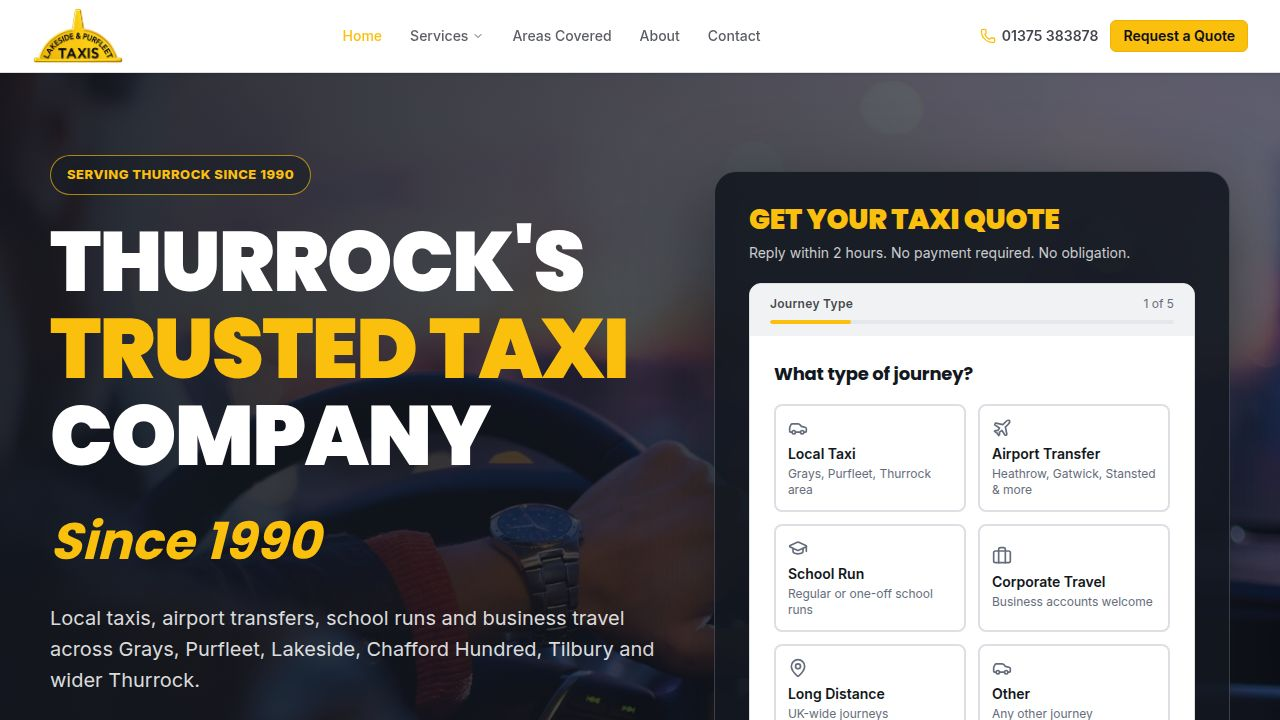
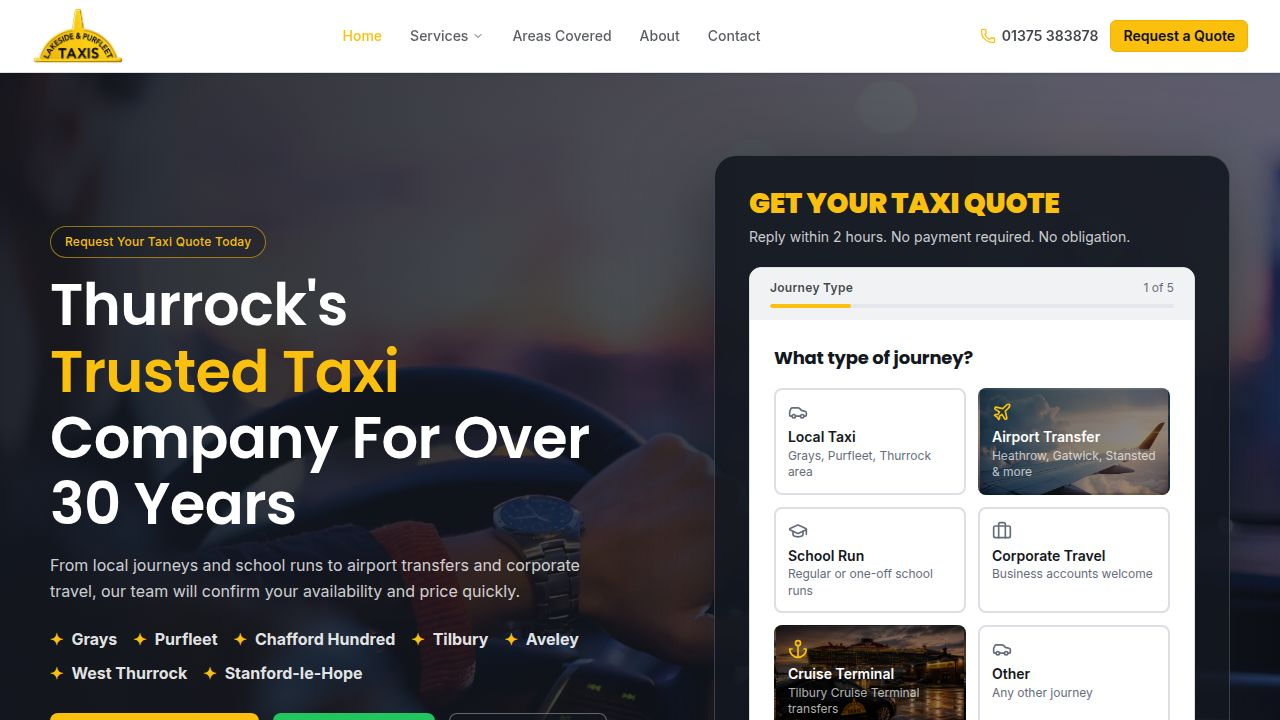
Add an interactive map showing taxi coverage areas
Integrates Leaflet map component into the LocalTaxis page, replacing a placeholder with an interactive map displaying coverage hotspots with popups and styling adjustments in CoverageMap.tsx, CoverageMap.css, and inner-page.css.

Replit-Commit-Author: Agent
Replit-Commit-Session-Id: 9621bce4-0561-4255-b152-0b5c00c79423
Replit-Commit-Checkpoint-Type: full_checkpoint
Replit-Commit-Event-Id: 6932e80b-dca9-43e7-8647-4b1ada4ad32a
Replit-Commit-Screenshot-Url: https://storage.googleapis.com/screenshot-production-us-central1/bddf5af3-0303-4c51-ab01-8265aae6e6ef/9621bce4-0561-4255-b152-0b5c00c79423/MuavuQV
Replit-Helium-Checkpoint-Created: true

diff --git a/artifacts/lakeside-taxis/src/components/CoverageMap.tsx b/artifacts/lakeside-taxis/src/components/CoverageMap.tsx
@@ -1,0 +1,158 @@
+import { useEffect, useRef } from "react";
+import type { Map as LeafletMap } from "leaflet";
+import "./CoverageMap.css";
+
+const hotspots = [
+  { name: "Grays",            lat: 51.4752, lng: 0.3232, desc: "Town centre, station & surrounding streets", major: true,  href: "/areas/grays" },
+  { name: "Purfleet",         lat: 51.4782, lng: 0.2372, desc: "Riverside area & Purfleet-on-Thames",        major: false, href: "/areas/purfleet" },
+  { name: "Chafford Hundred", lat: 51.4891, lng: 0.2963, desc: "Lakeside shopping & residential",            major: true,  href: "/areas/chafford-hundred" },
+  { name: "Tilbury",          lat: 51.4626, lng: 0.3584, desc: "Docks, cruise terminal & town centre",        major: false, href: "/areas/tilbury" },
+  { name: "South Ockendon",   lat: 51.5116, lng: 0.2953, desc: "Residential estates & village",              major: false, href: "/areas/south-ockendon" },
+  { name: "Aveley",           lat: 51.5022, lng: 0.2663, desc: "Village & surrounding area",                 major: false, href: "/areas/aveley" },
+  { name: "West Thurrock",    lat: 51.4878, lng: 0.2732, desc: "Retail parks & Stonehouse Corner",           major: false, href: "/areas/west-thurrock" },
+  { name: "Stanford-le-Hope", lat: 51.5147, lng: 0.4248, desc: "Town centre & station",                      major: false, href: "/areas/stanford-le-hope" },
+  { name: "Corringham",       lat: 51.5130, lng: 0.4005, desc: "Town & surrounding villages",                major: false, href: "/areas/corringham" },
+];
+
+const MAP_H = 480;
+
+export default function CoverageMap() {
+  // placeholderRef: always-rendered, used to measure available width synchronously
+  const placeholderRef = useRef<HTMLDivElement>(null);
+  // mapDivRef: the actual Leaflet container, created by us with explicit px dimensions
+  const mapDivRef = useRef<HTMLDivElement | null>(null);
+  const mapRef    = useRef<LeafletMap | null>(null);
+
+  useEffect(() => {
+    const placeholder = placeholderRef.current;
+    if (!placeholder || mapRef.current) return;
+
+    let destroyed = false;
+    let map: LeafletMap | null = null;
+
+    // Read the placeholder's width — it is a block-level div so its offsetWidth
+    // is already determined by the CSS layout engine at this point.
+    const containerW = placeholder.offsetWidth;
+
+    // Create the Leaflet div with explicit px dimensions so Leaflet measures correctly
+    const el = document.createElement("div");
+    el.style.width  = `${containerW}px`;
+    el.style.height = `${MAP_H}px`;
+    el.style.position = "relative"; // for popup absolute positioning
+    placeholder.replaceWith(el);
+    mapDivRef.current = el;
+
+    import("leaflet").then((mod) => {
+      if (destroyed || !el.isConnected) return;
+      const L = mod.default ?? mod;
+
+      map = L.map(el, {
+        center: [51.49, 0.34],
+        zoom: 12,
+        zoomControl: false,
+        attributionControl: false,
+        scrollWheelZoom: false,
+        preferCanvas: true,
+      });
+      mapRef.current = map;
+
+      L.tileLayer(
+        "https://{s}.basemaps.cartocdn.com/dark_all/{z}/{x}/{y}{r}.png",
+        { subdomains: "abcd", maxZoom: 19 }
+      ).addTo(map);
+
+      L.control.zoom({ position: "bottomright" }).addTo(map);
+
+      // Popup
+      const popup = document.createElement("div");
+      popup.className = "cmap-popup";
+      popup.style.display = "none";
+      el.appendChild(popup);
+
+      let activeMarker: ReturnType<typeof L.circleMarker> | null = null;
+
+      hotspots.forEach((spot) => {
+        const r = spot.major ? 14 : 10;
+
+        const marker = L.circleMarker([spot.lat, spot.lng], {
+          radius: r,
+          color: "#f5c518",
+          weight: spot.major ? 2.5 : 2,
+          fillColor: "#f5c518",
+          fillOpacity: spot.major ? 0.42 : 0.22,
+        }).addTo(map!);
+
+        L.circleMarker([spot.lat, spot.lng], {
+          radius: r + 8, color: "#f5c518", weight: 1,
+          fillOpacity: 0, opacity: 0.18, interactive: false,
+        }).addTo(map!);
+
+        const showPopup = () => {
+          const pt = map!.latLngToContainerPoint([spot.lat, spot.lng]);
+          popup.innerHTML = `
+            <div class="cmap-popup-name">${spot.name}</div>
+            <div class="cmap-popup-desc">${spot.desc}</div>
+            <a class="cmap-popup-link" href="${spot.href}">View area →</a>
+          `;
+          popup.style.display = "block";
+          const popW = 200;
+          let left = pt.x + 18;
+          if (left + popW > el.offsetWidth - 10) left = pt.x - popW - 18;
+          popup.style.left = `${Math.max(4, left)}px`;
+          popup.style.top  = `${Math.max(8, pt.y - 16)}px`;
+          if (activeMarker && activeMarker !== marker) {
+            activeMarker.setStyle({ fillOpacity: 0.22, weight: 2 });
+          }
+          marker.setStyle({ fillOpacity: 0.9, weight: 3 });
+          activeMarker = marker;
+        };
+
+        const hidePopup = () => {
+          popup.style.display = "none";
+          marker.setStyle({ fillOpacity: spot.major ? 0.42 : 0.22, weight: spot.major ? 2.5 : 2 });
+          activeMarker = null;
+        };
+
+        marker.on("mouseover", showPopup);
+        marker.on("mouseout", hidePopup);
+        marker.on("click", (e) => { L.DomEvent.stopPropagation(e); showPopup(); });
+      });
+
+      map.on("click", () => { popup.style.display = "none"; });
+
+      const onResize = () => {
+        if (!destroyed && map && el.parentElement) {
+          const newW = el.parentElement.offsetWidth;
+          el.style.width = `${newW}px`;
+          map.invalidateSize();
+        }
+      };
+      window.addEventListener("resize", onResize);
+      (el as any).__cleanup = () => window.removeEventListener("resize", onResize);
+    });
+
+    return () => {
+      destroyed = true;
+      const cleanup = (mapDivRef.current as any)?.__cleanup;
+      if (cleanup) cleanup();
+      map?.remove();
+      mapRef.current = null;
+    };
+  }, []);
+
+  return (
+    <div className="cmap-section">
+      <div className="cmap-legend">
+        <div className="cmap-legend-dot cmap-legend-dot--major" />
+        <span>Main hub</span>
+        <div className="cmap-legend-dot" />
+        <span>Coverage area</span>
+      </div>
+      {/* placeholder measured synchronously; replaced by the Leaflet div in useEffect */}
+      <div ref={placeholderRef} className="cmap-placeholder" />
+      <p className="cmap-credit">
+        Map © <a href="https://www.openstreetmap.org/copyright" target="_blank" rel="noopener">OpenStreetMap</a> contributors, © <a href="https://carto.com/" target="_blank" rel="noopener">CARTO</a>
+      </p>
+    </div>
+  );
+}

diff --git a/artifacts/lakeside-taxis/src/components/CoverageMap.css b/artifacts/lakeside-taxis/src/components/CoverageMap.css
@@ -1,0 +1,136 @@
+.cmap-section {
+  position: relative;
+}
+
+/* Legend row above map */
+.cmap-legend {
+  display: flex;
+  align-items: center;
+  gap: 6px 10px;
+  flex-wrap: wrap;
+  margin-bottom: 12px;
+  font-size: 12px;
+  color: rgba(224, 216, 200, 0.65);
+}
+
+.cmap-legend-dot {
+  width: 10px;
+  height: 10px;
+  border-radius: 50%;
+  background: rgba(245, 197, 24, 0.22);
+  border: 2px solid #f5c518;
+  flex-shrink: 0;
+}
+
+.cmap-legend-dot--major {
+  width: 14px;
+  height: 14px;
+  background: rgba(245, 197, 24, 0.42);
+}
+
+/* Placeholder: full-width block so offsetWidth is measurable before Leaflet init */
+.cmap-placeholder {
+  width: 100%;
+  height: 480px;
+}
+
+/* The Leaflet div replaces the placeholder — styled inline with explicit px */
+/* Style Leaflet's inner containers */
+.cmap-section .leaflet-container {
+  background: hsl(220 25% 8%);
+  border-radius: 12px;
+  box-shadow: 0 4px 40px rgba(0, 0, 0, 0.5);
+  overflow: hidden;
+}
+
+/* Tile opacity */
+.cmap-section .leaflet-tile-pane { opacity: 0.92; }
+
+/* Zoom controls */
+.cmap-section .leaflet-control-zoom {
+  border: none !important;
+  box-shadow: 0 2px 12px rgba(0, 0, 0, 0.4);
+  border-radius: 8px;
+  overflow: hidden;
+  margin-bottom: 12px !important;
+  margin-right: 12px !important;
+}
+
+.cmap-section .leaflet-control-zoom a {
+  background: hsl(220 22% 13%) !important;
+  color: #e0d8c8 !important;
+  border: none !important;
+  border-bottom: 1px solid rgba(255,255,255,0.06) !important;
+  width: 32px !important;
+  height: 32px !important;
+  line-height: 32px !important;
+  font-size: 18px !important;
+  font-weight: 400 !important;
+  transition: background 0.15s;
+}
+
+.cmap-section .leaflet-control-zoom a:hover {
+  background: hsl(220 22% 22%) !important;
+  color: #f5c518 !important;
+}
+
+/* Popup */
+.cmap-popup {
+  position: absolute;
+  z-index: 900;
+  background: hsl(220 22% 13%);
+  border: 1px solid rgba(245, 197, 24, 0.28);
+  border-radius: 10px;
+  padding: 14px 16px;
+  width: 200px;
+  pointer-events: none;
+  box-shadow: 0 8px 32px rgba(0, 0, 0, 0.55);
+  animation: cmap-popup-in 0.16s ease;
+}
+
+@keyframes cmap-popup-in {
+  from { opacity: 0; transform: translateY(5px); }
+  to   { opacity: 1; transform: translateY(0); }
+}
+
+.cmap-popup-name {
+  font-family: 'Poppins', sans-serif;
+  font-size: 14px;
+  font-weight: 700;
+  color: #f5c518;
+  margin-bottom: 4px;
+}
+
+.cmap-popup-desc {
+  font-size: 12px;
+  color: rgba(224, 216, 200, 0.7);
+  line-height: 1.5;
+  margin-bottom: 10px;
+}
+
+.cmap-popup-link {
+  display: inline-block;
+  font-size: 12px;
+  font-weight: 600;
+  color: #f5c518;
+  text-decoration: none;
+  pointer-events: all;
+  transition: opacity 0.15s;
+}
+
+.cmap-popup-link:hover { opacity: 0.75; }
+
+/* Attribution */
+.cmap-credit {
+  font-size: 11px;
+  color: rgba(224, 216, 200, 0.3);
+  text-align: right;
+  padding: 6px 2px 0;
+  margin: 0;
+}
+
+.cmap-credit a { color: inherit; text-decoration: underline; }
+
+@media (max-width: 620px) {
+  .cmap-map { height: 340px; }
+}

diff --git a/artifacts/lakeside-taxis/src/pages/inner-page.css b/artifacts/lakeside-taxis/src/pages/inner-page.css
@@ -562,6 +562,67 @@
   .ip-airport-price { font-size: 28px; }
 }
 
+/* ── COVERAGE MAP ── */
+.ip-map-section {
+  padding: 80px 0 72px;
+}
+
+.ip-map-header {
+  display: flex;
+  align-items: flex-end;
+  justify-content: space-between;
+  gap: 32px;
+  margin-bottom: 36px;
+}
+
+.ip-map-header > div:first-child {
+  max-width: 560px;
+}
+
+.ip-map-stats {
+  display: flex;
+  gap: 28px;
+  flex-shrink: 0;
+}
+
+.ip-map-stat {
+  display: flex;
+  flex-direction: column;
+  align-items: flex-end;
+  gap: 1px;
+}
+
+.ip-map-stat strong {
+  font-family: 'Poppins', sans-serif;
+  font-size: clamp(28px, 3vw, 42px);
+  font-weight: 900;
+  color: hsl(var(--primary));
+  line-height: 1;
+  letter-spacing: -0.03em;
+}
+
+.ip-map-stat span {
+  font-size: 12px;
+  color: color-mix(in srgb, hsl(var(--card)) 45%, transparent);
+  text-transform: uppercase;
+  letter-spacing: 0.06em;
+  white-space: nowrap;
+}
+
+@media (max-width: 760px) {
+  .ip-map-header {
+    flex-direction: column;
+    align-items: flex-start;
+    margin-bottom: 24px;
+  }
+  .ip-map-stats {
+    gap: 20px;
+  }
+  .ip-map-stat {
+    align-items: flex-start;
+  }
+}
+
 /* ── FAQ ── */
 .ip-faq-section {
   background: hsl(220 25% 7%);

diff --git a/artifacts/lakeside-taxis/src/pages/LocalTaxis.tsx b/artifacts/lakeside-taxis/src/pages/LocalTaxis.tsx
@@ -1,6 +1,7 @@
 import { Link } from "wouter";
 import { Helmet } from "react-helmet-async";
 import Layout from "@/components/layout/Layout";
+import CoverageMap from "@/components/CoverageMap";
 import "./inner-page.css";
 
 const WA = "https://wa.me/447879956275";
@@ -60,6 +61,27 @@ export default function LocalTaxis() {
                 </div>
               ))}
             </div>
+          </div>
+        </section>
+
+        {/* ── COVERAGE MAP ── */}
+        <section className="ip-dark ip-map-section">
+          <div className="ip-inner">
+            <div className="ip-map-header">
+              <div>
+                <div className="ip-kicker">Coverage Area</div>
+                <h2 className="ip-section-title">Where We <span>Cover</span></h2>
+                <p className="ip-section-sub ip-section-sub-dark">
+                  Hover or tap any hotspot to explore our coverage across Thurrock Borough. Click through to each area page.
+                </p>
+              </div>
+              <div className="ip-map-stats">
+                <div className="ip-map-stat"><strong>9</strong><span>Areas</span></div>
+                <div className="ip-map-stat"><strong>30+</strong><span>Years local</span></div>
+                <div className="ip-map-stat"><strong>24/7</strong><span>Available</span></div>
+              </div>
+            </div>
+            <CoverageMap />
           </div>
         </section>
 